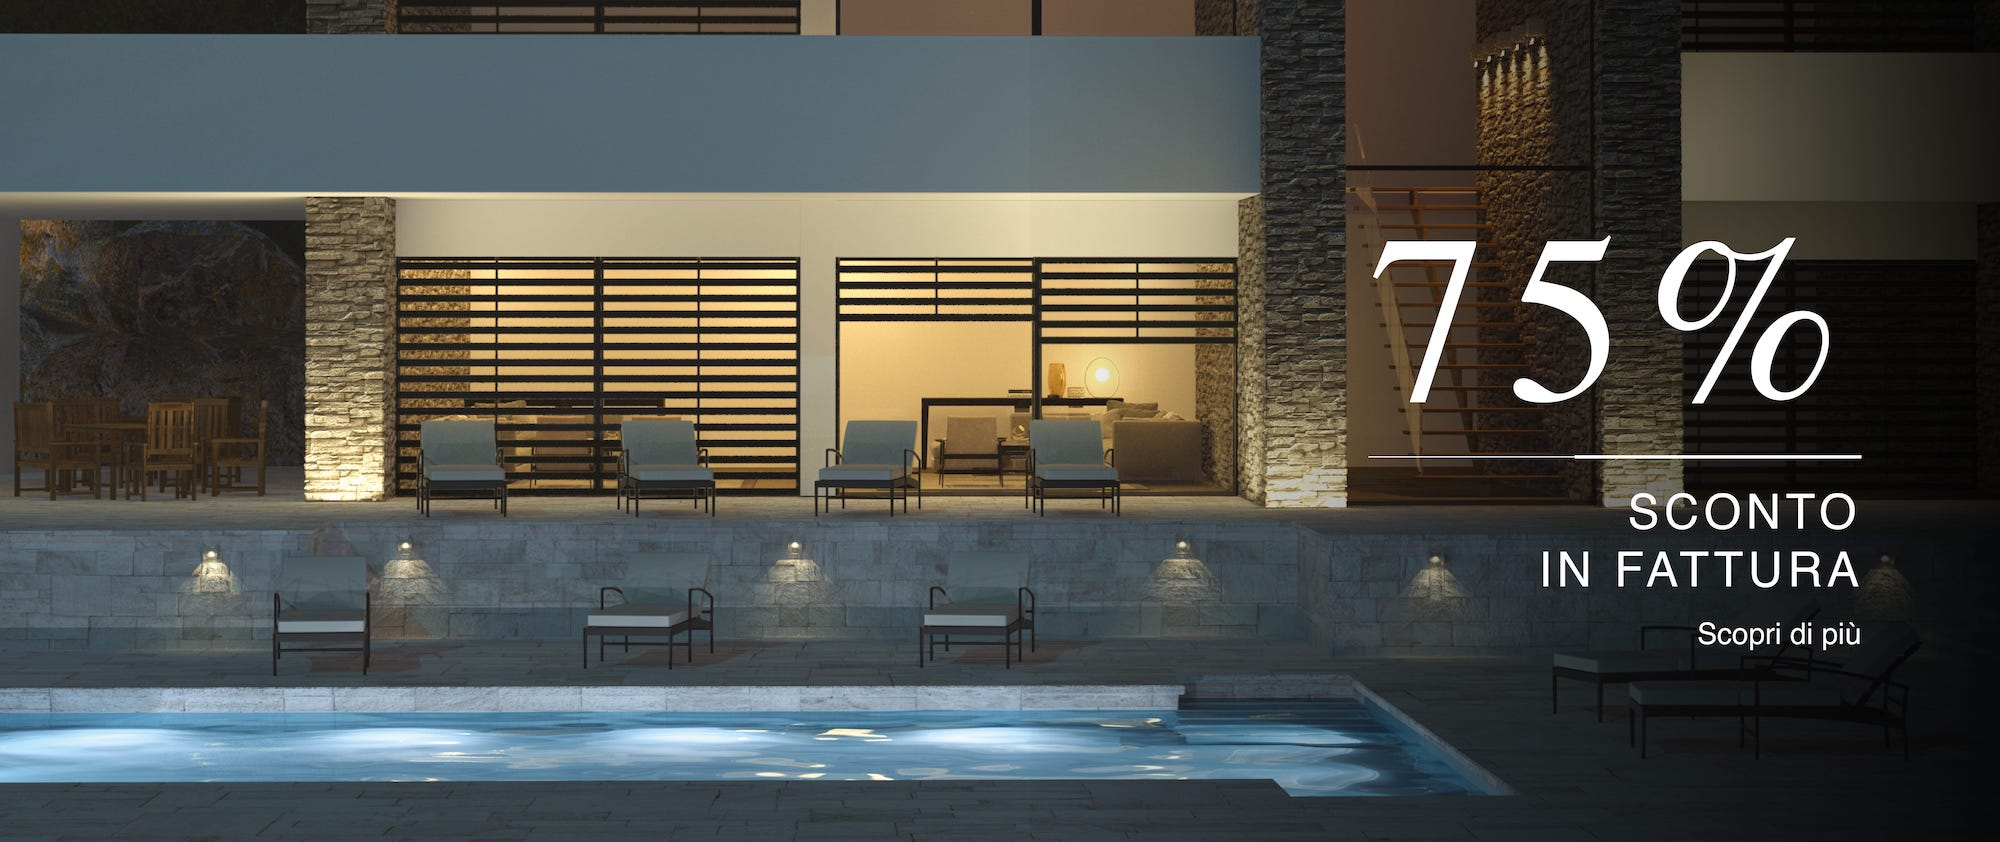
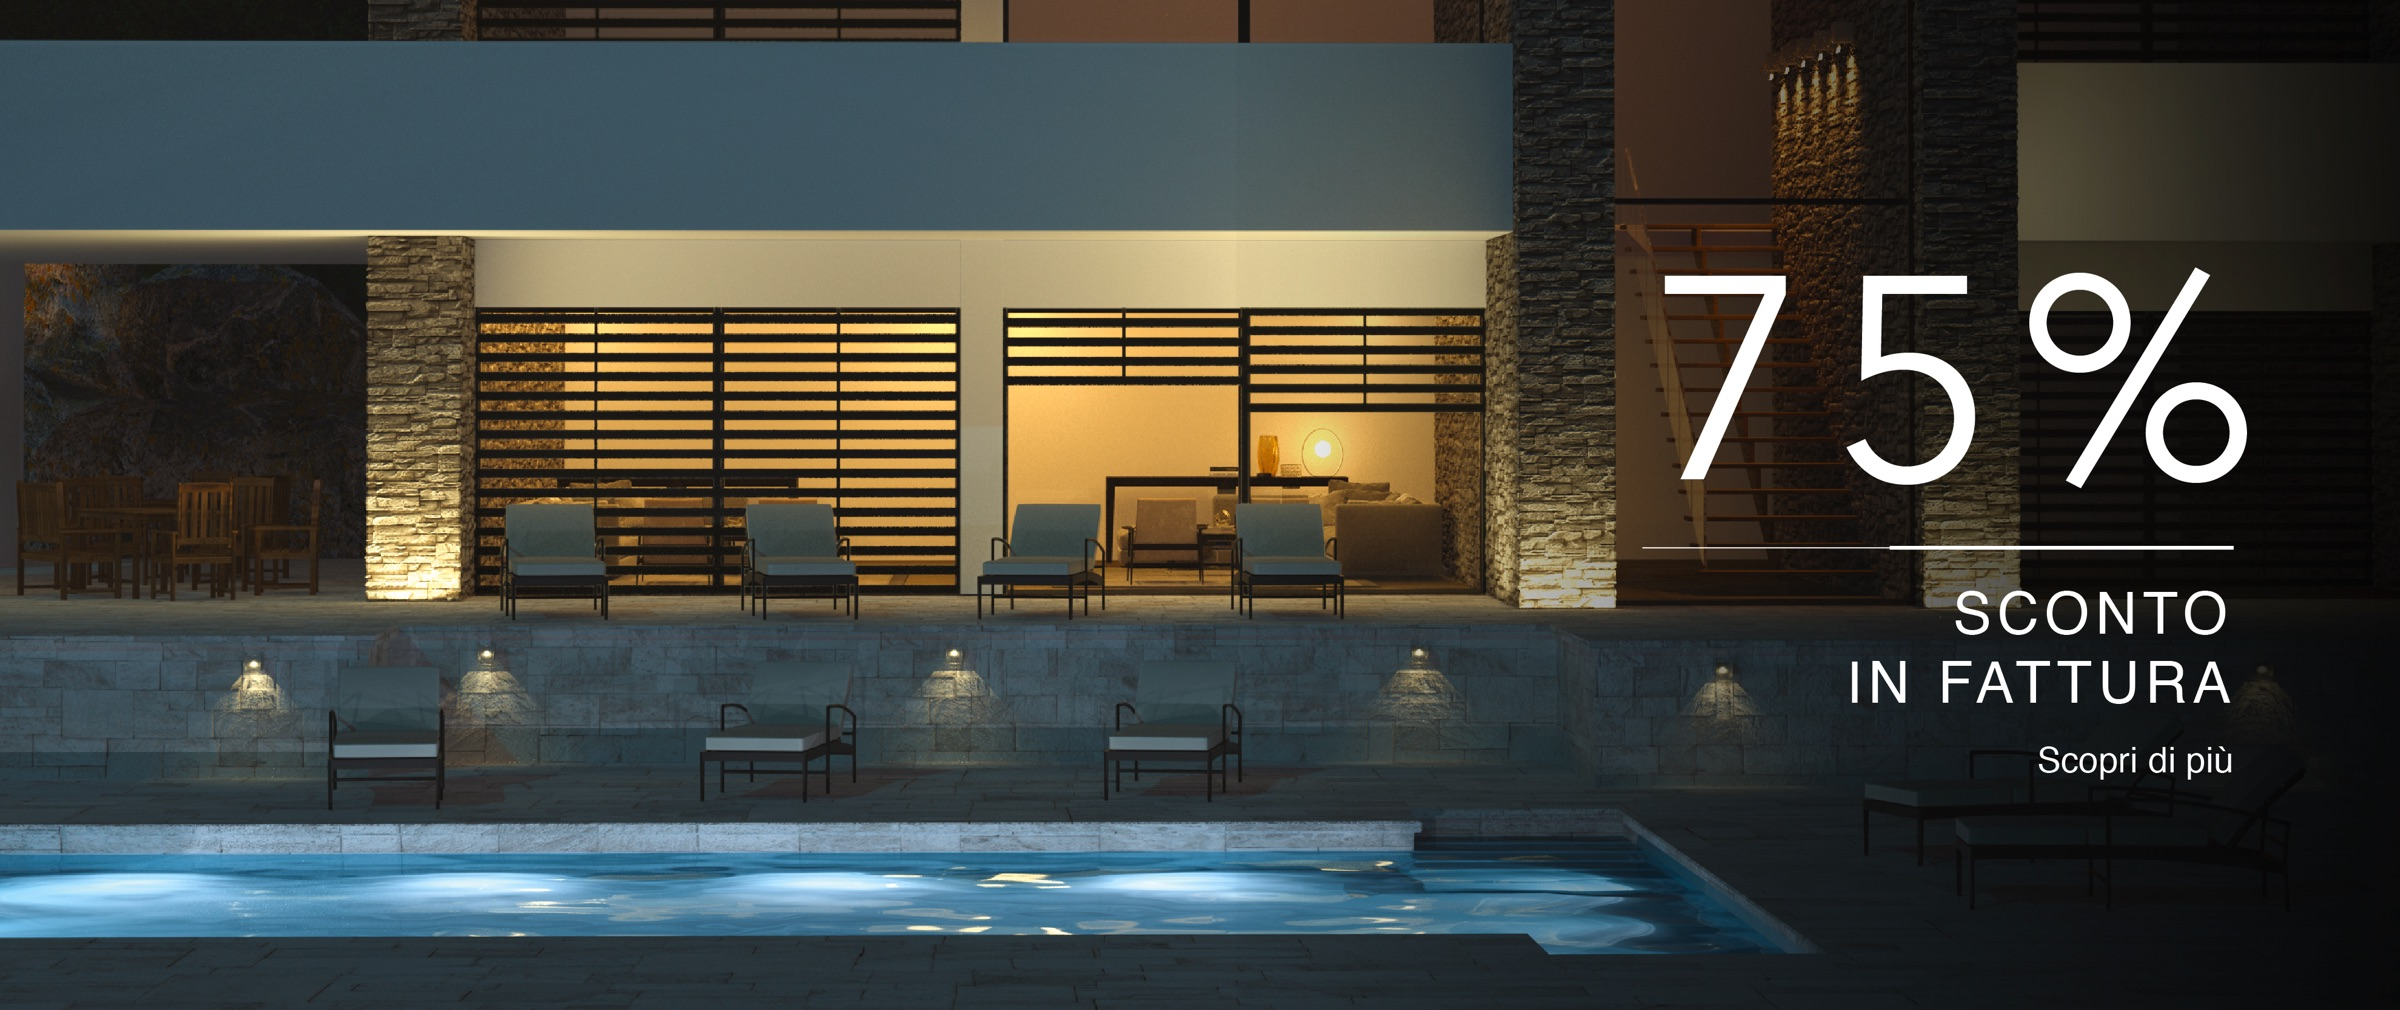
cambiate foto

diff --git a/css/custom.css b/css/custom.css
@@ -193,3 +193,8 @@ button[type="submit"]:hover, button[type="submit"]:focus {
 .footer-bottom {
     background: #F9F9F9;
 }
+
+.btn.btn-custom{
+    background-color: #666666 !important;
+    color: white!important;
+}

diff --git a/index.php b/index.php
@@ -53,11 +53,11 @@
             <div class="slider-active">
                 <div class="single-slider" onclick="window.location.href='75infattura.php'">
                     <img src="images/slider/75slide1.jpg" class="d-none d-md-flex cursor-pointer w-100" alt="">
-                    <img src="images/slider/75slide1_mobile.jpeg" class="d-md-none d-flex cursor-pointer w-100" alt="">
+                    <img src="images/slider/75slide1_mobile.jpg" class="d-md-none d-flex cursor-pointer w-100" alt="">
                 </div>
                 <div class="single-slider" onclick="window.location.href='75infattura.php'">
                     <img src="images/slider/75slide2.jpg" class="d-none d-md-flex cursor-pointer w-100" alt="">
-                    <img src="images/slider/75slide2_mobile.jpeg" class="d-md-none d-flex cursor-pointer w-100" alt="">
+                    <img src="images/slider/75slide2_mobile.jpg" class="d-md-none d-flex cursor-pointer w-100" alt="">
                 </div>                
 
                 <div class="single-slider slide-height d-flex align-items-center"
@@ -274,8 +274,10 @@
                                         grate oscuranti e persiane a scomparsa,</strong> certificato anti intrusione
                                     classe4. Dotato di sistemi di chiusura brevettati con azionamento automatico,
                                     comandi semplici, integrabili ad un sistema di domotica, senza bisogno di
-                                    chiavi.<br><strong> <a class="text-uppercase" href="75infattura.php">75% sconto in fattura</a></strong></p>
+                                    chiavi.<br>
+                                    </p>
                                 <div class="about-action mt-30">
+                                    <a class="btn btn-custom text-uppercase mb-2" href="75infattura.php">75% sconto in fattura</a>
                                     <a class="btn " href="dual-block.php">Scopri di più</a>
                                     
                                 </div>
@@ -371,10 +373,11 @@
                                         <div class="desc">
                                             Sono la soluzione alla tua voglia di <br> Essenziale. <strong>Ampie
                                                 vetrate</strong> profili sottili, puro design.
-                                                <strong><br> <a class="text-uppercase" href="75infattura.php">75% sconto in
-                                                        fattura</a></strong>
+                                                <strong><br></strong>
                                         </div>
-                                        <a class="btn btn-theme" href="vetrate-scorrevoli-minimal.php"
+                                         <a class="btn btn-custom px-4 mb-2" href="75infattura.php">75% sconto in
+                                             fattura</a>
+                                        <a class="btn " href="vetrate-scorrevoli-minimal.php"
                                             title="Vetrate Scorrevoli Minimal Roma"
                                             alt="Vetrate Scorrevoli Minimal Roma">Scopri di più</a>
                                     </div>
@@ -397,7 +400,7 @@
                                                 gli spazi esterni</strong> della tua casa in condizioni termiche
                                             ottimali.</strong>
                                         </div>
-                                        <a class="btn btn-theme" href="serre-bioclimatiche.php"
+                                        <a class="btn " href="serre-bioclimatiche.php"
                                             title="Serre Bioclimatiche Roma" alt="Serre Bioclimatiche Roma">Scopri di
                                             più</a>
                                     </div>
@@ -416,7 +419,7 @@
                                             Ti permettono di vivere la tua zona living esterna in totale armonia.
                                             <strong>Filtrare il sole</strong> creando delle zone d’ombra regolabili.
                                         </div>
-                                        <a class="btn btn-theme" href="pergotende.php" title="Pergotende Roma"
+                                        <a class="btn " href="pergotende.php" title="Pergotende Roma"
                                             alt="Pergotende Roma">Scopri di più</a>
                                     </div>
                                 </div>
@@ -440,7 +443,7 @@
                                             <strong>Scegli l’inclinazione perfetta delle lamelle</strong> e goditi il
                                             tuo sole o proteggiti dalla pioggia. Design e comfort in un solo gesto.
                                         </div>
-                                        <a class="btn btn-theme" href="pergole-a-lamelle-orientabili.php">Scopri di
+                                        <a class="btn " href="pergole-a-lamelle-orientabili.php">Scopri di
                                             più</a>
                                     </div>
                                 </div>
@@ -467,7 +470,7 @@
                                             Le Pergole a Lamelle Orientabili Retraibili a differenza delle pergole a
                                             lamelle orientabili fanno si chesi retraggono totalmente.
                                         </div>
-                                        <a class="btn btn-theme" href="pergola-a-lamelle-orientabili-retraibili.php"
+                                        <a class="btn " href="pergola-a-lamelle-orientabili-retraibili.php"
                                             title="Pergole a Pannelli Orientabili Retrattili Roma"
                                             alt="Pergole a Pannelli Orientabili Retrattili Roma">Scopri di più</a>
                                     </div>
@@ -491,7 +494,7 @@
                                             Il vantaggio della pergola fotovoltaica è la possibilità di unire tecnologia
                                             e design al servizio dell’ambiente.
                                         </div>
-                                        <a class="btn btn-theme" href="pergola-fotovoltaica.php"
+                                        <a class="btn " href="pergola-fotovoltaica.php"
                                             title="Pergole Fotovoltaiche Roma" alt="Pergole Fotovoltaiche Roma">Scopri
                                             di più</a>
                                     </div>
@@ -515,7 +518,7 @@
                                             Il carport fotovoltaico, ti permette di proteggere la tua auto
                                             producendo energia green.
                                         </div>
-                                        <a class="btn btn-theme" href="carport_fotovoltaico.php"
+                                        <a class="btn " href="carport_fotovoltaico.php"
                                             title="Carport Fotovoltaico Roma" alt="Carport Fotovoltaico Roma">Scopri di
                                             più</a>
                                     </div>
@@ -537,7 +540,7 @@
                                             Regalano la giusta copertura permettendoti di sfruttare al meglio la zona
                                             esterna.
                                         </div>
-                                        <a class="btn btn-theme" href="tende-da-sole.php">Scopri di più</a>
+                                        <a class="btn " href="tende-da-sole.php">Scopri di più</a>
                                     </div>
                                 </div>
                             </div>
@@ -554,7 +557,7 @@
                                             Sono la giusta soluzione per la tua privacy. Puoi <strong>filtrare il
                                                 sole</strong> con diverse inclinazioni.
                                         </div>
-                                        <a class="btn btn-theme" href="frangi-vista.php">Scopri di più</a>
+                                        <a class="btn " href="frangi-vista.php">Scopri di più</a>
                                     </div>
                                 </div>
                             </div>

diff --git a/75infattura.php b/75infattura.php
@@ -104,7 +104,7 @@
                                     Dec. Ministeriale n. 236 del 14/06/1989.</p>
                             </div>
                         </div>
-                        <img src="images/banner/75slide1.jpg" alt="">
+                        <img src="images/banner/75slide2.jpg" alt="">
 
                     </div>
 
@@ -120,11 +120,17 @@
                         <div class="col-12">
                             <div class="section-title text-center">
                                 <h2>COME CALCOLARE IL TOTALE DELLA DETRAZIONE</h2>
-                                <p>Il totale della detrazione deve essere calcolato su un importo complessivo non
-                                    superiore a limiti prestabiliti in base al numero di unità familiari:
-                                    50.000€ di spesa massima per edifici
-                                    unifamiliari o unità immobiliari inseriti in contesti di edifici plurifamiliari
-                                    che siano indipendenti e dispongano di uno o più accessi autonomi dall'esterno;</p>
+                            <p>Il totale della detrazione deve essere calcolato su un importo complessivo non superiore
+                                a limiti prestabiliti in base al numero di unità familiari:</p>
+                            <ul style="list-style:none">
+                                <li><strong>50.000€</strong> di spesa massima per edifici unifamiliari o unità
+                                    immobiliari inseriti in contesti di edifici plurifamiliari che siano indipendenti e
+                                    dispongano di uno o più accessi autonomi dall'esterno.</li>
+                                <li><strong>40.000€</strong> di spesa massima per ciascuna unità immobiliare che
+                                    costituisce un edificio da due a otto unità.</li>
+                                <li><strong>30.000€</strong> di spesa massima per ciascuna unità immobiliare che
+                                    costituisce un edificio con più di otto unità.</li>
+                            </ul>
                             </div>
                         </div>
 
